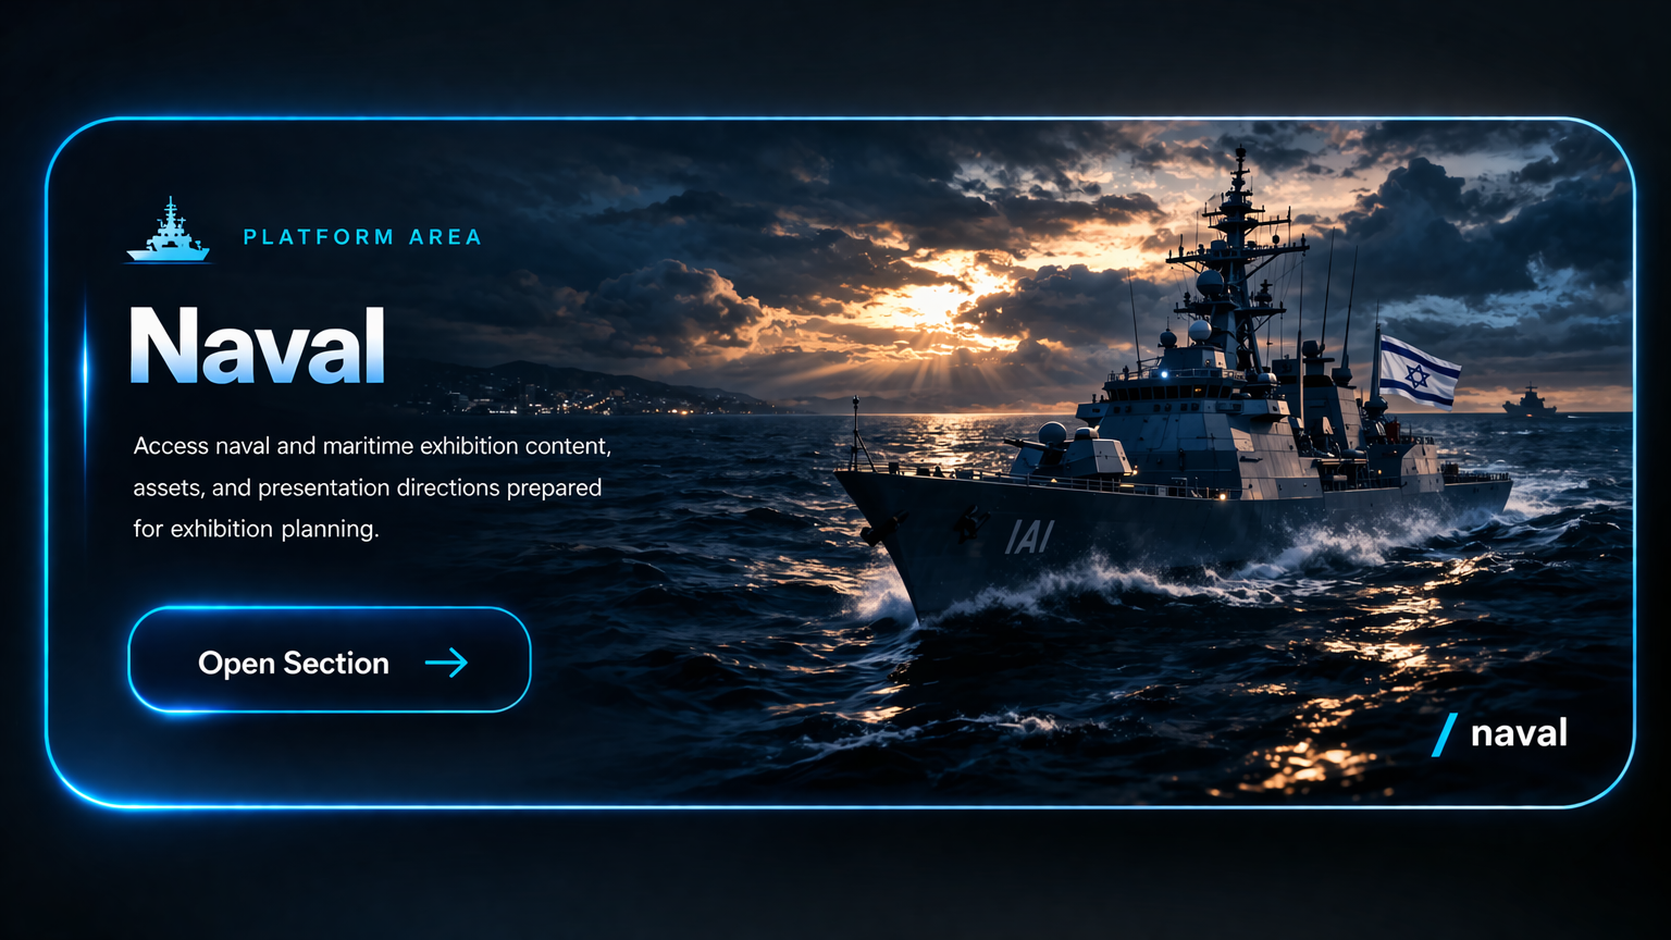
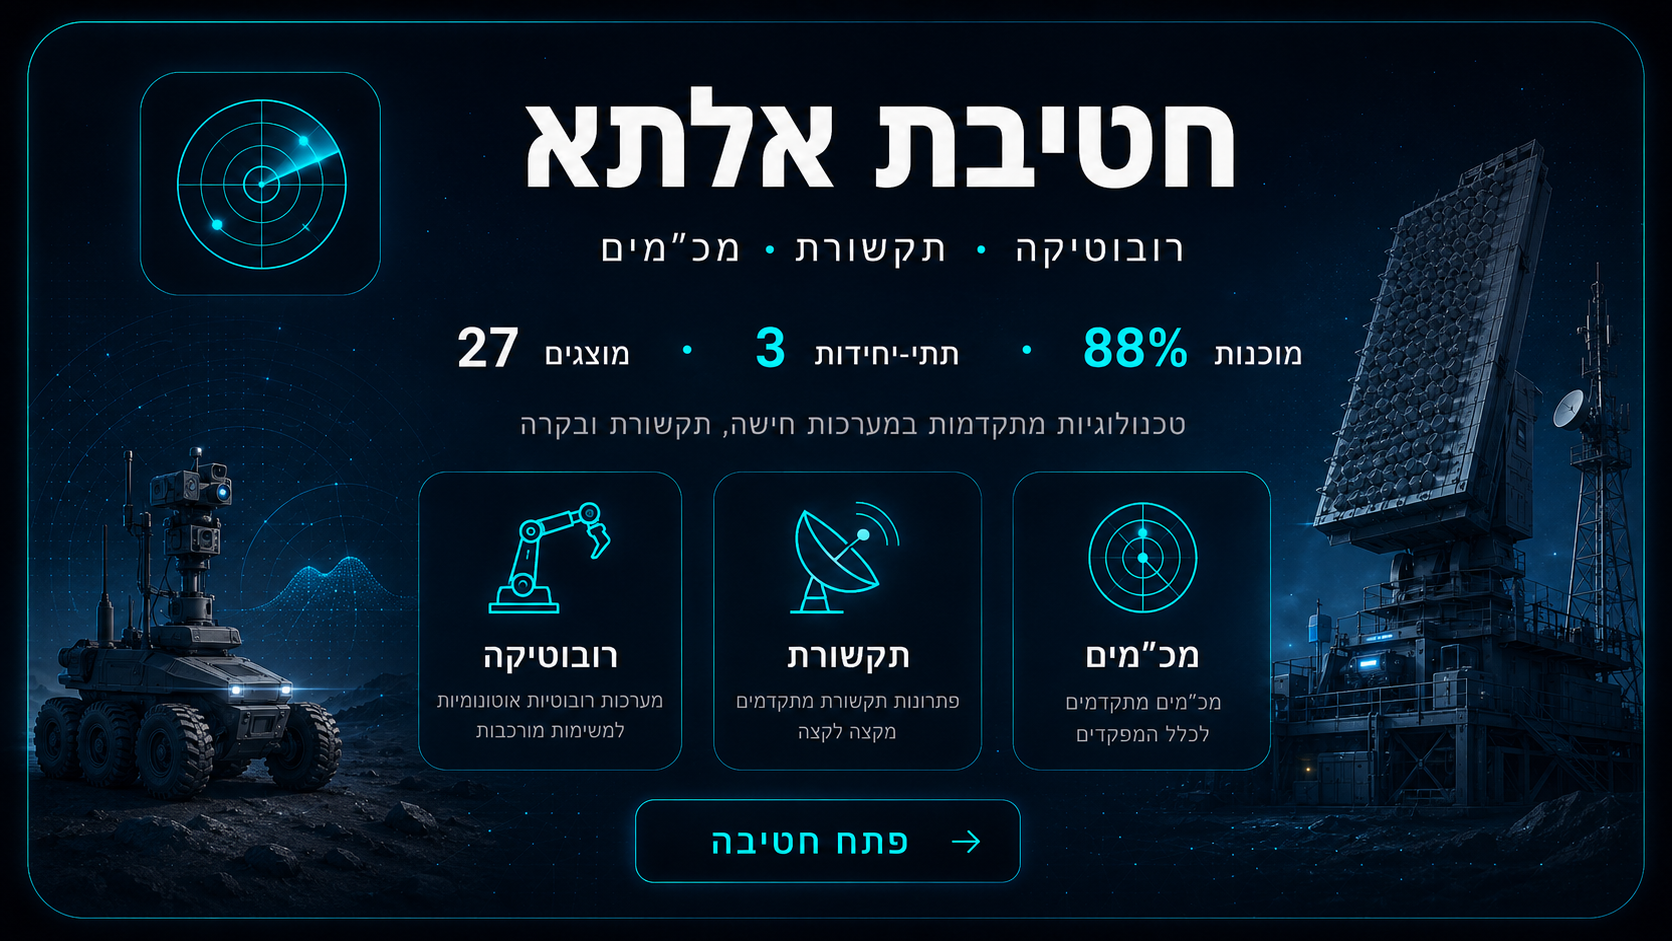
feat: new home page with 4 IAI divisions

diff --git a/src/app/page.tsx b/src/app/page.tsx
@@ -1,107 +1,176 @@
+"use client";
 import Link from "next/link";
 
-const topCards = [
-  { title: "Space", href: "/space", image: "/images/home/space-cover.png" },
-  { title: "Air", href: "/air", image: "/images/home/air-cover.png" },
-  { title: "Land", href: "/land", image: "/images/home/land-cover.png" },
+const divisions = [
+  {
+    id: "missiles-space-defense",
+    nameHe: 'חטיבת מט"ח',
+    nameEn: "MTA Division",
+    subHe: "מלמ · טילים · חלל · הגנה",
+    exhibits: 24,
+    subDivisions: 4,
+    readiness: 82,
+    cover: "/images/divisions/matach-cover.png",
+    color: "#00c8ff",
+  },
+  {
+    id: "aviation",
+    nameHe: "חטיבת תעופה",
+    nameEn: "Aviation Division",
+    subHe: "בדק · MRO",
+    exhibits: 18,
+    subDivisions: 2,
+    readiness: 79,
+    cover: "/images/divisions/taufa-cover.png",
+    color: "#00c8ff",
+  },
+  {
+    id: "elta",
+    nameHe: "חטיבת אלתא",
+    nameEn: "ELTA Division",
+    subHe: "רובוטיקה · תקשורת · מכ״מים",
+    exhibits: 27,
+    subDivisions: 3,
+    readiness: 88,
+    cover: "/images/divisions/elta-cover.png",
+    color: "#00c8ff",
+  },
+  {
+    id: "uav",
+    nameHe: 'חטיבת כט"צ',
+    nameEn: "UAV Division",
+    subHe: "מלט",
+    exhibits: 12,
+    subDivisions: 1,
+    readiness: 84,
+    cover: "/images/divisions/uav-cover.png",
+    color: "#00c8ff",
+  },
 ];
-
-const bottomCards = [
-  { title: "Naval", href: "/naval", image: "/images/home/naval-cover.png" },
-  { title: "Exhibitions", href: "/exhibitions", image: "/images/home/exhibitions-home-cover.png" },
-];
-
-
-function Card({
-  title,
-  href,
-  image,
-}: {
-  title: string;
-  href: string;
-  image: string;
-}) {
-  return (
-    <Link
-      href={href}
-      aria-label={`Open ${title}`}
-      className="group block overflow-hidden rounded-[16px] border border-white/10 bg-[#08131f] shadow-[0_18px_60px_rgba(0,0,0,0.28)] transition duration-300 hover:-translate-y-1 cursor-pointer"
-    >
-      <div className="relative aspect-[16/7.2] w-full">
-        <img
-          src={image}
-          alt={title}
-          className="absolute inset-0 h-full w-full object-cover object-center transition duration-500 group-hover:scale-[1.02]"
-        />
-      </div>
-    </Link>
-  );
-}
 
 export default function HomePage() {
   return (
-    <main className="min-h-screen bg-[#06111f] text-white">
-      <div className="mx-auto flex min-h-screen w-full max-w-[1700px] flex-col gap-4 px-4 py-4">
-        <div className="flex items-center justify-end">
-          <div className="inline-flex overflow-hidden rounded-[14px] border border-cyan-300/24 bg-[#08131f]/92 shadow-[0_0_0_1px_rgba(103,232,249,0.08),0_0_18px_rgba(34,211,238,0.10)]">
-            <span className="bg-cyan-400/12 px-4 py-2 text-[13px] font-medium uppercase tracking-[0.18em] text-white">
-              EN
-            </span>
-            <Link
-              href="/he"
-              aria-label="Switch to Hebrew"
-              className="px-4 py-2 text-[13px] font-medium uppercase tracking-[0.18em] text-cyan-200 transition duration-300 hover:bg-cyan-400/10 hover:text-white"
-            >
-              HE
-            </Link>
+    <main className="min-h-screen bg-[#02040e] text-white" dir="rtl">
+      {/* Header */}
+      <header className="flex items-center justify-between px-8 py-5 border-b border-white/5">
+        <div className="flex items-center gap-3">
+          <img src="/covers/iai-white.png" alt="IAI" className="h-10 w-auto" style={{ filter: "drop-shadow(0 0 8px rgba(0,160,255,0.6))" }} />
+          <div>
+            <p className="text-[10px] tracking-[0.3em] text-cyan-300/60 uppercase">Exhibition Hub</p>
+            <p className="text-[12px] text-white/80 font-light">מערכת ניהול תערוכות</p>
           </div>
         </div>
+        <div className="flex items-center gap-3">
+          <Link href="/tents-layout" className="px-4 py-2 bg-cyan-500/10 border border-cyan-400/30 rounded-lg text-cyan-300 text-[11px] tracking-widest hover:bg-cyan-500/20 transition">
+            🏕 אוהלים ופריסה
+          </Link>
+          <Link href="/inventory" className="px-4 py-2 bg-white/5 border border-white/10 rounded-lg text-white/60 text-[11px] tracking-widest hover:bg-white/10 transition">
+            מחסן
+          </Link>
+          <Link href="/exhibitions" className="px-4 py-2 bg-white/5 border border-white/10 rounded-lg text-white/60 text-[11px] tracking-widest hover:bg-white/10 transition">
+            תערוכות
+          </Link>
+        </div>
+      </header>
 
-        <section className="relative overflow-hidden rounded-[30px] border border-white/10 bg-[#08131f] shadow-[0_24px_80px_rgba(0,0,0,0.35)]">
-          <div className="relative h-[56vh] min-h-[420px] max-h-[760px] w-full">
-            <img
-              src="/images/home/home-hero-bg.png"
-              alt="Exhibition Platform Hero Background"
-              className="absolute inset-0 h-full w-full object-cover object-center"
-            />
+      {/* Hero */}
+      <div className="px-8 py-10 text-center">
+        <p className="text-cyan-300/50 text-[10px] tracking-[0.5em] uppercase mb-3">Israel Aerospace Industries</p>
+        <h1 className="text-4xl font-extralight tracking-wide text-white mb-2">בנק מוצגים גלובלי</h1>
+        <p className="text-white/40 text-sm">ניהול מרכזי של כל החטיבות, המוצגים, והתערוכות</p>
+      </div>
 
-            <div className="absolute inset-0 bg-gradient-to-r from-[#06111f]/88 via-[#06111f]/38 to-transparent" />
-            <div className="absolute inset-x-0 bottom-0 h-28 bg-gradient-to-t from-[#06111f] to-transparent" />
-
-            <div className="absolute left-[5%] top-[18%] z-10 max-w-[620px]">
-              <p className="mb-3 text-[clamp(14px,1.2vw,20px)] font-medium uppercase tracking-[0.22em] text-cyan-300">
-                Exhibition Platform
-              </p>
-
-              <h1 className="mb-4 text-[clamp(56px,7vw,120px)] font-semibold leading-[0.92] tracking-[-0.04em] text-white">
-                Operational
-                <br />
-                Exhibition Hub
-              </h1>
-
-              <div className="mb-6 h-[3px] w-40 rounded-full bg-cyan-400/90 shadow-[0_0_18px_rgba(34,211,238,0.55)]" />
-
-              <p className="max-w-[560px] text-[clamp(16px,1.35vw,22px)] leading-[1.55] text-white/90">
-                A digital platform for managing exhibition assets, presenting key systems in 3D, and building a structured foundation for planning, layout, and exhibition operations.
-              </p>
-            </div>
+      {/* Stats bar */}
+      <div className="flex justify-center gap-6 px-8 mb-10">
+        {[
+          { label: "סה״כ מוצגים", value: "81" },
+          { label: "חטיבות", value: "4" },
+          { label: "תתי-יחידות", value: "10" },
+          { label: "מוכנות", value: "83%" },
+        ].map((s) => (
+          <div key={s.label} className="bg-white/4 border border-white/8 rounded-xl px-6 py-3 text-center">
+            <p className="text-2xl font-light text-cyan-300">{s.value}</p>
+            <p className="text-[10px] text-white/40 tracking-widest uppercase mt-1">{s.label}</p>
           </div>
-        </section>
+        ))}
+      </div>
 
-        <section>
-        </section>
+      {/* Division cards */}
+      <div className="grid grid-cols-2 gap-5 px-8 max-w-5xl mx-auto pb-16">
+        {divisions.map((div) => (
+          <Link
+            key={div.id}
+            href={`/global-exhibit-bank/division?divisionId=${div.id}`}
+            className="group relative overflow-hidden rounded-2xl border border-white/10 bg-[#06111f] hover:border-cyan-400/40 transition-all duration-500 hover:-translate-y-1"
+          >
+            {/* Cover image */}
+            <div className="relative h-44 overflow-hidden">
+              <img
+                src={div.cover}
+                alt={div.nameHe}
+                className="absolute inset-0 w-full h-full object-cover opacity-40 group-hover:opacity-55 group-hover:scale-105 transition-all duration-700"
+              />
+              <div className="absolute inset-0 bg-gradient-to-t from-[#06111f] via-[#06111f]/60 to-transparent" />
+              <div className="absolute top-4 left-4">
+                <span className="text-[10px] tracking-[0.3em] text-cyan-300/60 uppercase">חטיבה</span>
+              </div>
+              <div className="absolute bottom-4 right-4 text-right">
+                <h2 className="text-2xl font-semibold text-white">{div.nameHe}</h2>
+                <p className="text-cyan-300/70 text-[11px] tracking-wider mt-1">{div.subHe}</p>
+              </div>
+            </div>
 
-        <section className="grid grid-cols-1 gap-4 lg:grid-cols-3">
-          {topCards.map((card) => (
-            <Card key={card.title} {...card} />
+            {/* Stats */}
+            <div className="px-5 py-4">
+              <div className="flex items-center gap-4 mb-3">
+                <span className="text-cyan-400 text-xl font-light">{div.readiness}%</span>
+                <span className="text-white/40 text-xs">מוכנות</span>
+                <span className="mx-2 text-white/20">·</span>
+                <span className="text-white/70 text-sm">{div.exhibits}</span>
+                <span className="text-white/40 text-xs">מוצגים</span>
+                <span className="mx-2 text-white/20">·</span>
+                <span className="text-white/70 text-sm">{div.subDivisions}</span>
+                <span className="text-white/40 text-xs">תתי-יחידות</span>
+              </div>
+
+              {/* Readiness bar */}
+              <div className="w-full bg-white/8 rounded-full h-1 mb-4">
+                <div
+                  className="h-1 rounded-full bg-cyan-400"
+                  style={{ width: `${div.readiness}%`, boxShadow: "0 0 8px rgba(0,200,255,0.6)" }}
+                />
+              </div>
+
+              <div className="flex items-center justify-between">
+                <span className="text-white/30 text-[11px]">{div.nameEn}</span>
+                <span className="text-cyan-300/70 text-[11px] group-hover:text-cyan-200 transition">
+                  פתח חטיבה →
+                </span>
+              </div>
+            </div>
+          </Link>
+        ))}
+      </div>
+
+      {/* Footer nav */}
+      <div className="fixed bottom-0 left-0 right-0 bg-[#02040e]/95 backdrop-blur border-t border-white/5 px-8 py-3">
+        <div className="flex items-center justify-center gap-8 max-w-3xl mx-auto">
+          {[
+            { label: "חטיבות", href: "/", active: true },
+            { label: "מוצגים", href: "/global-exhibit-bank" },
+            { label: "מלאי", href: "/inventory" },
+            { label: "תערוכות", href: "/exhibitions" },
+            { label: "אוהלים", href: "/tents-layout" },
+          ].map((item) => (
+            <Link
+              key={item.label}
+              href={item.href}
+              className={`text-[11px] tracking-widest uppercase transition ${item.active ? "text-cyan-300" : "text-white/40 hover:text-white/70"}`}
+            >
+              {item.label}
+            </Link>
           ))}
-        </section>
-
-        <section className="grid grid-cols-1 gap-4 lg:grid-cols-2 lg:px-[16.66%]">
-          {bottomCards.map((card) => (
-            <Card key={card.title} {...card} />
-          ))}
-        </section>
+        </div>
       </div>
     </main>
   );
